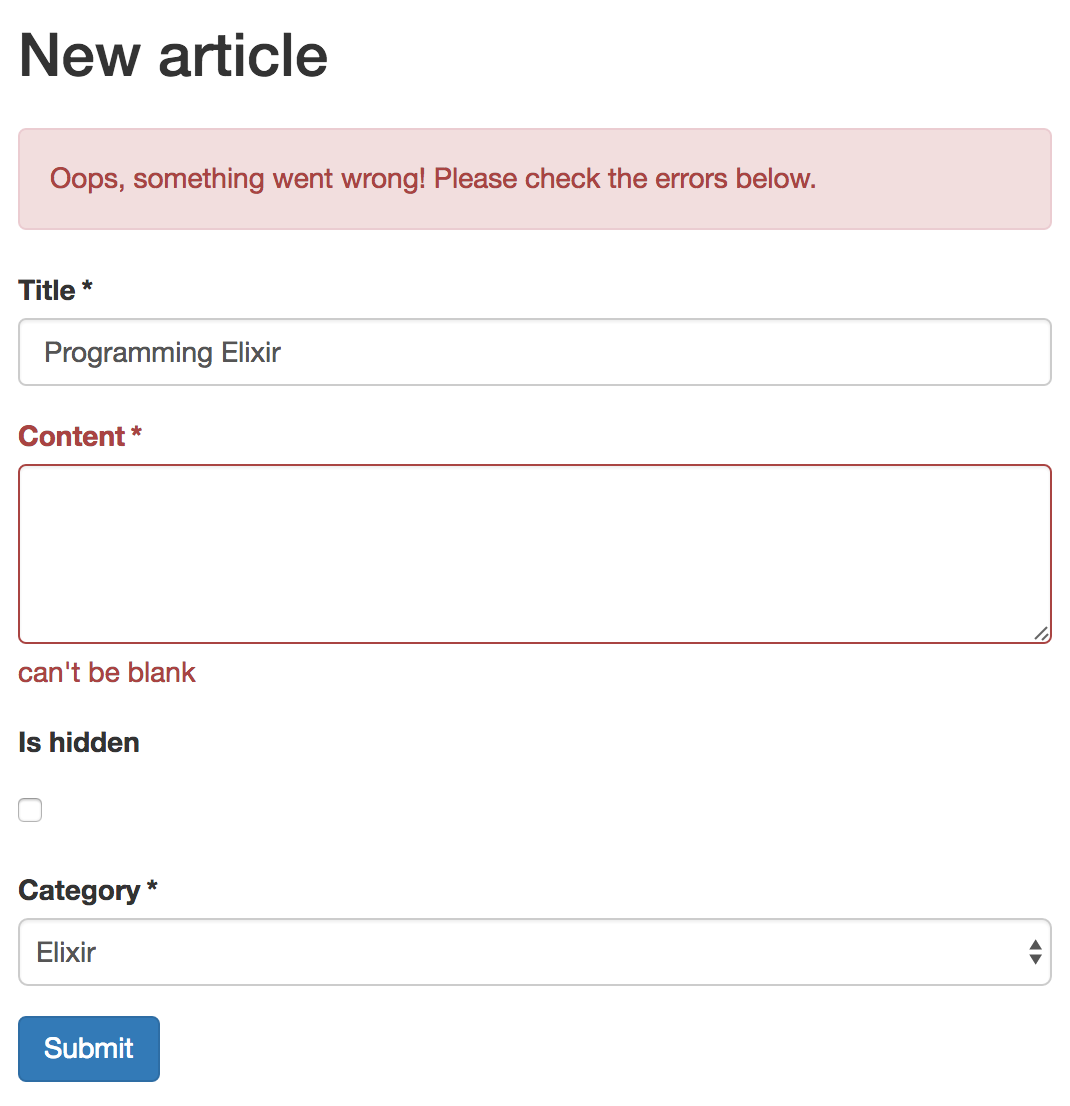
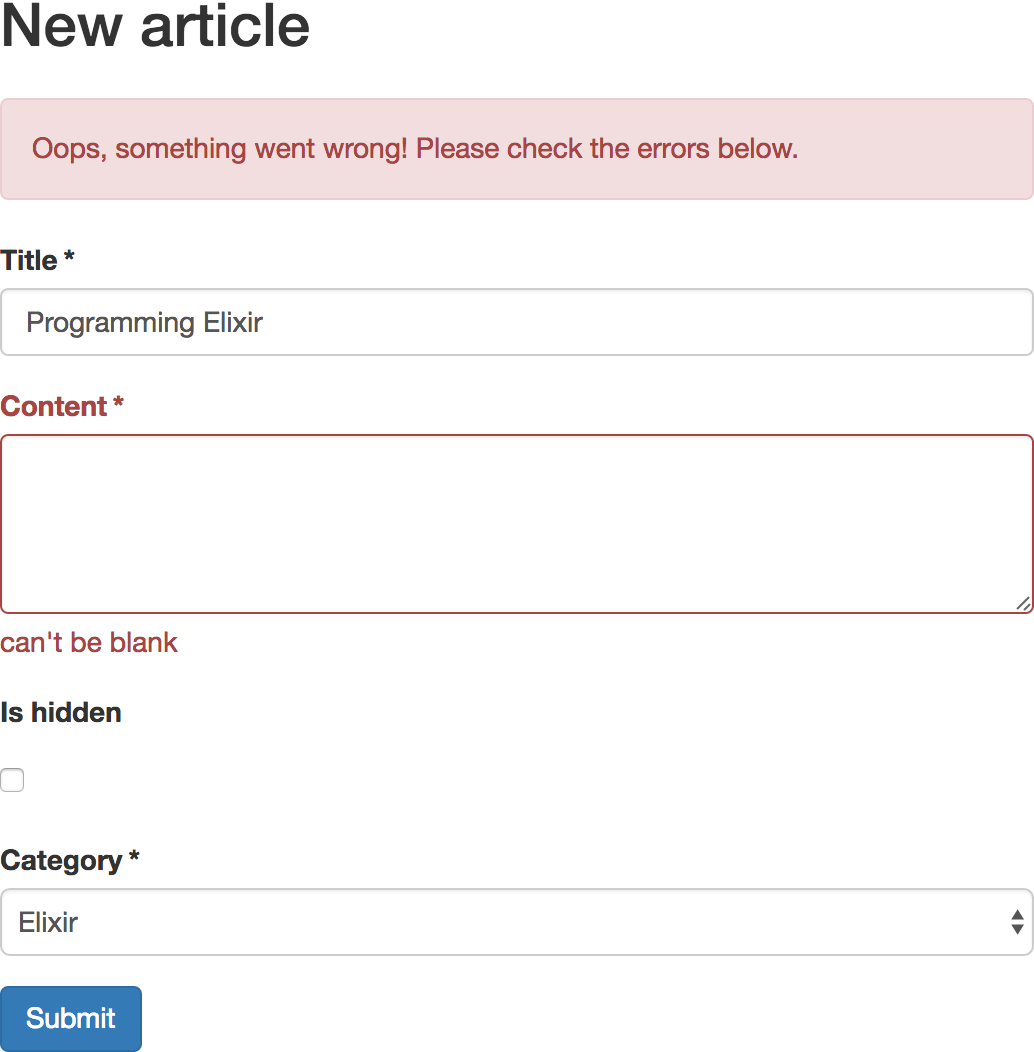
updated readme

Changed region(s): [[0.0, 0.0, 1.0, 0.6996], [0.0, 0.7909, 1.0, 1.0], [0.0, 0.73, 0.0309, 0.7605]]

diff --git a/README.md b/README.md
@@ -154,7 +154,8 @@ CSS (optional):
 ```
 
 final effect:
-![Example](example.png)
+
+<img src="example.png" style="width: 502px; display: block">
 
 It's very simple, isn't it?
 You don't need to create any changeset, nor write query to get options for a Category select.
